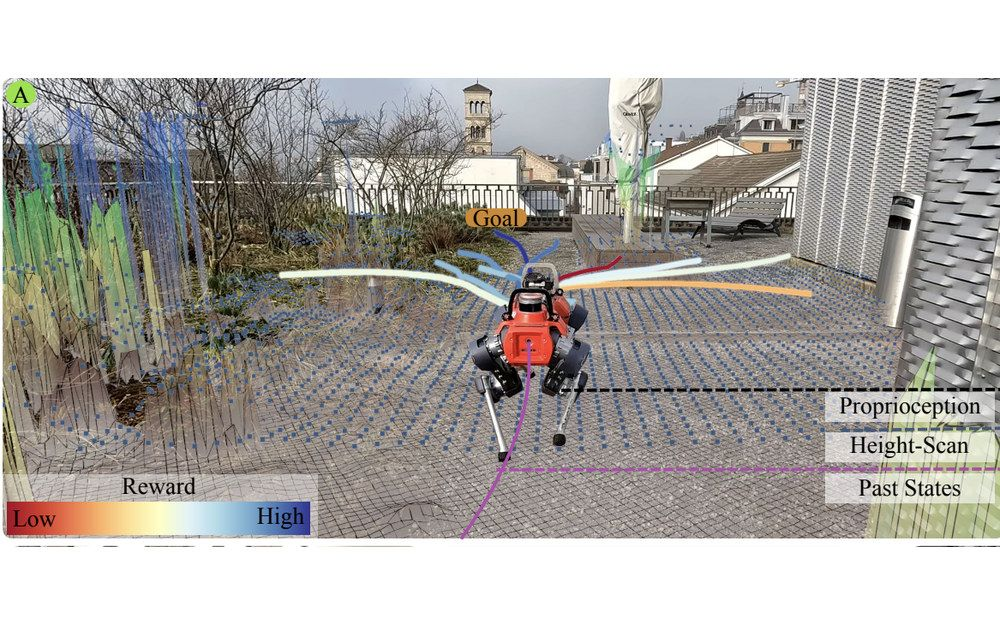
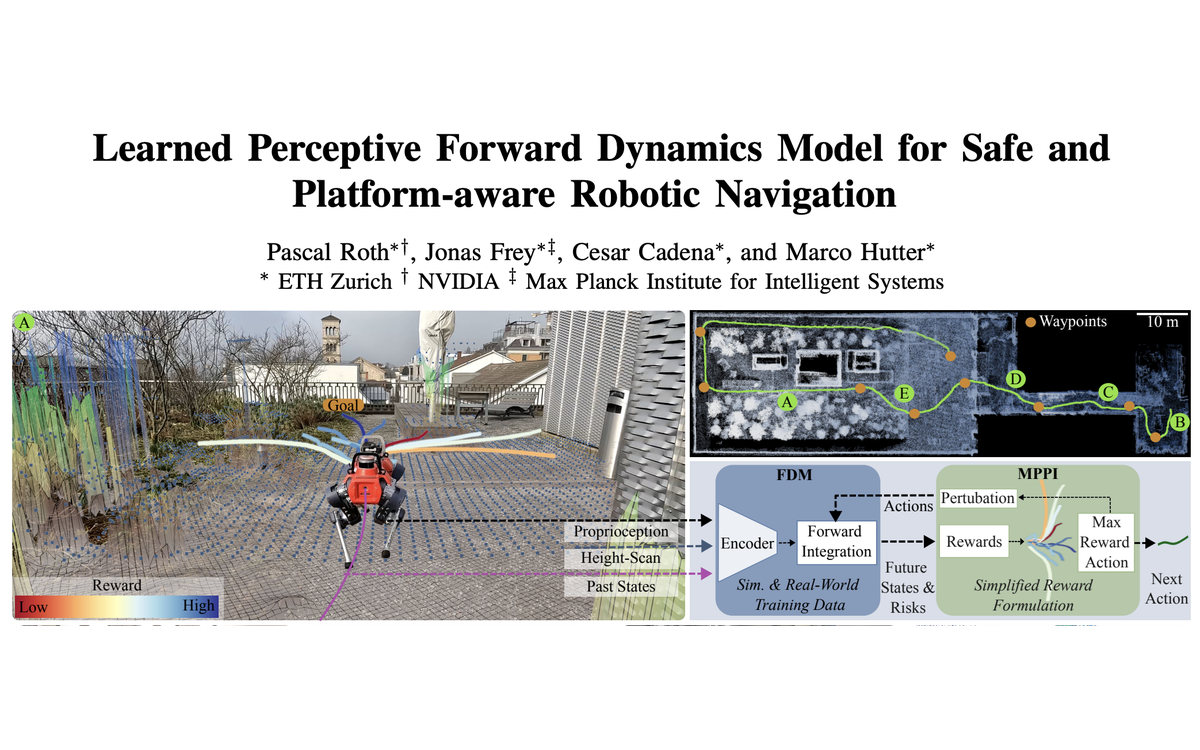
Credit the source paper on every reproduction poster
Each reproduced project now opens on the original paper's teaser figure,
title and authors included, and only starts playing this work once
someone asks for it. Reproductions are labelled as reproductions before
anyone clicks.

- poster-dualvln.jpg, poster-fdm.jpg: the papers' teaser figures with
  their title blocks. On the FDM figure the authors' email line is
  cropped away; the title, names and affiliations stay.
- poster-combat-robot.jpg: a photo of the robot itself, since that
  project is not a reproduction and has nobody else to credit.
- The DualVLN card shows its poster as an <img> until the video lands;
  <img> now shares the media rule the <video> already had.

Claude-Session: https://claude.ai/code/session_01LPzZFJcpu4bNTuooytnHzV

diff --git a/index.html b/index.html
@@ -73,9 +73,9 @@
 
         <article class="project">
           <div class="project-media">
-            <!-- 视频就位后替换成（poster 用视频里挑一帧生成）：
+            <!-- 视频就位后把 <img> 换成：
                  <video src="images/proj-dualvln.mp4" poster="images/poster-dualvln.jpg" loop muted playsinline preload="none"></video> -->
-            <div class="media-placeholder"><i class="fas fa-video"></i></div>
+            <img src="images/poster-dualvln.jpg" alt="DualVLN, Wei et al.">
           </div>
           <div class="project-body">
             <h3>Dual-System Vision-and-Language Navigation for a Humanoid</h3>
